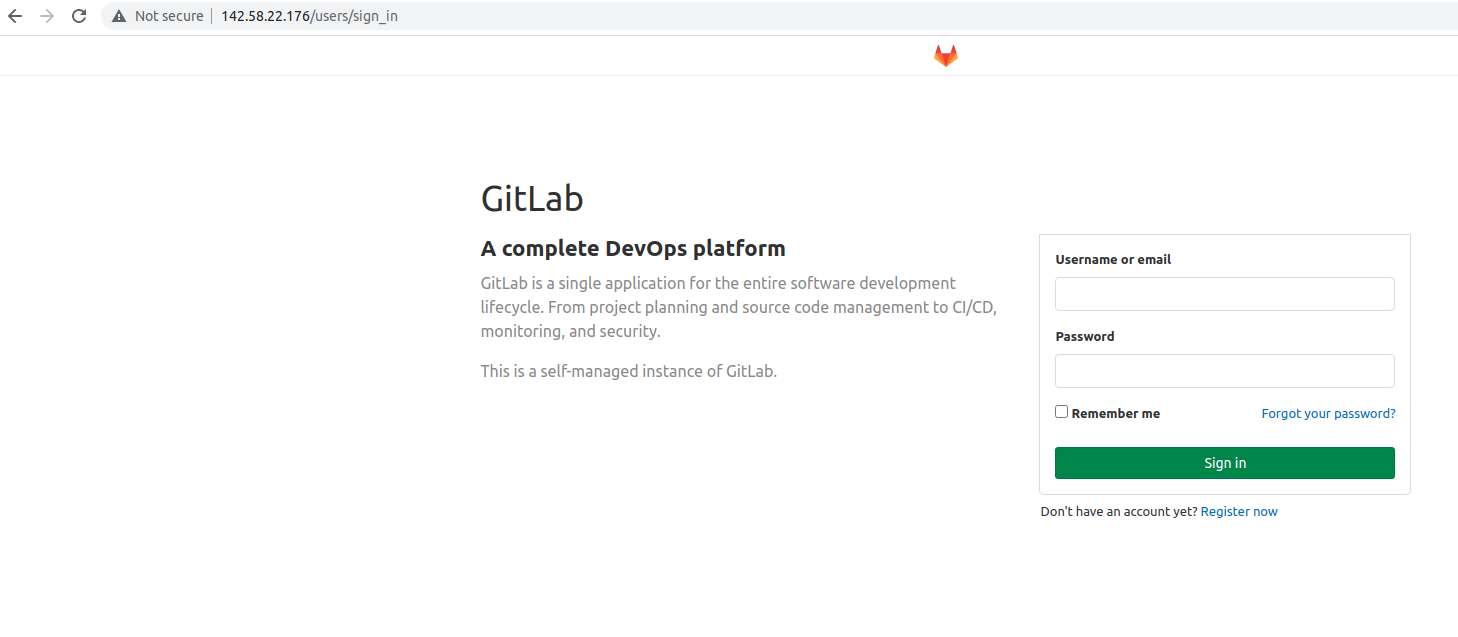
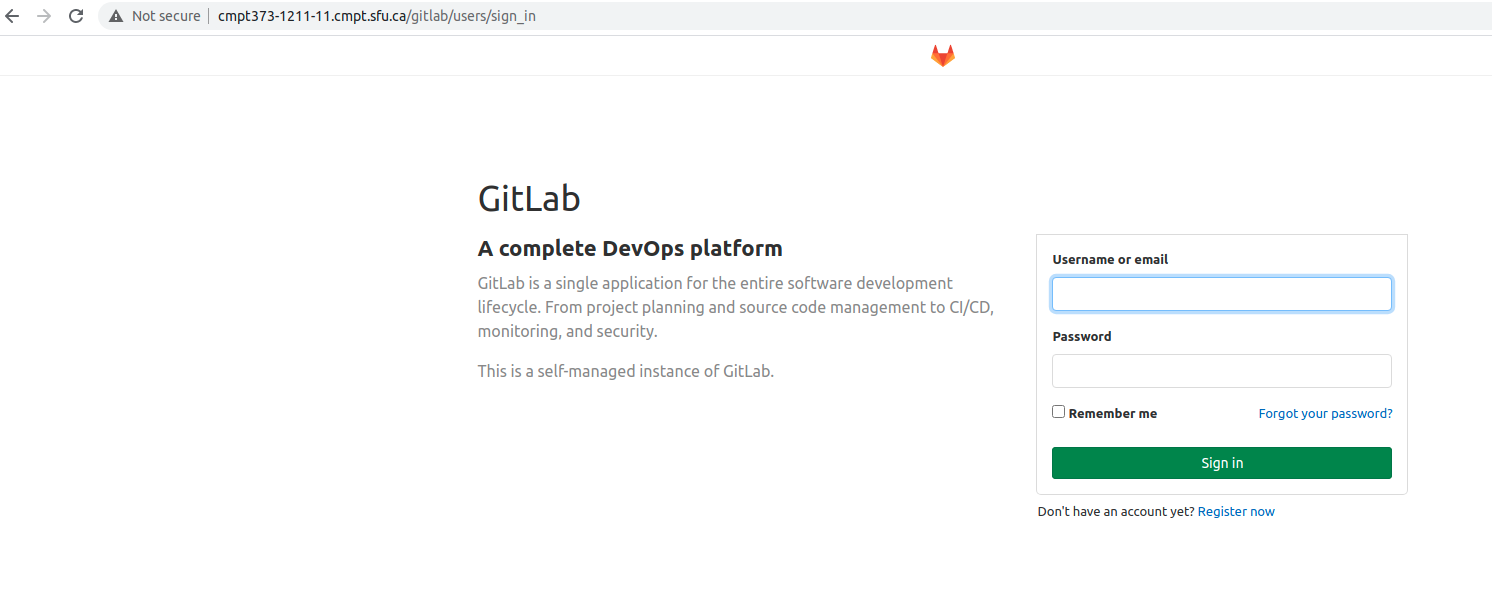
update gitlab server doc

diff --git a/documentation/backend/gitlab_server/README.md b/documentation/backend/gitlab_server/README.md
@@ -21,7 +21,7 @@
 
 # Access the server on your browser
 
-1. Go to `http://142.58.22.176/`, you should see the sign in screen:
+1. Go to `http://cmpt373-1211-11.cmpt.sfu.ca/gitlab`, you should see the sign in screen:
 
     <img src="images/sc1.png" width="90%">
 
@@ -57,7 +57,7 @@
 
   - Format: `GET /projects/:id/repository/commits`
 
-  - For example: `curl --include "http://142.58.22.176/api/v4/projects/2/repository/commits?private_token=<your_personal_access_token>"`
+  - For example: `curl --include "http://cmpt373-1211-11.cmpt.sfu.ca/gitlab/api/v4/projects/2/repository/commits?private_token=<your_personal_access_token>"`
 
   - `:id` is the project id:
 
